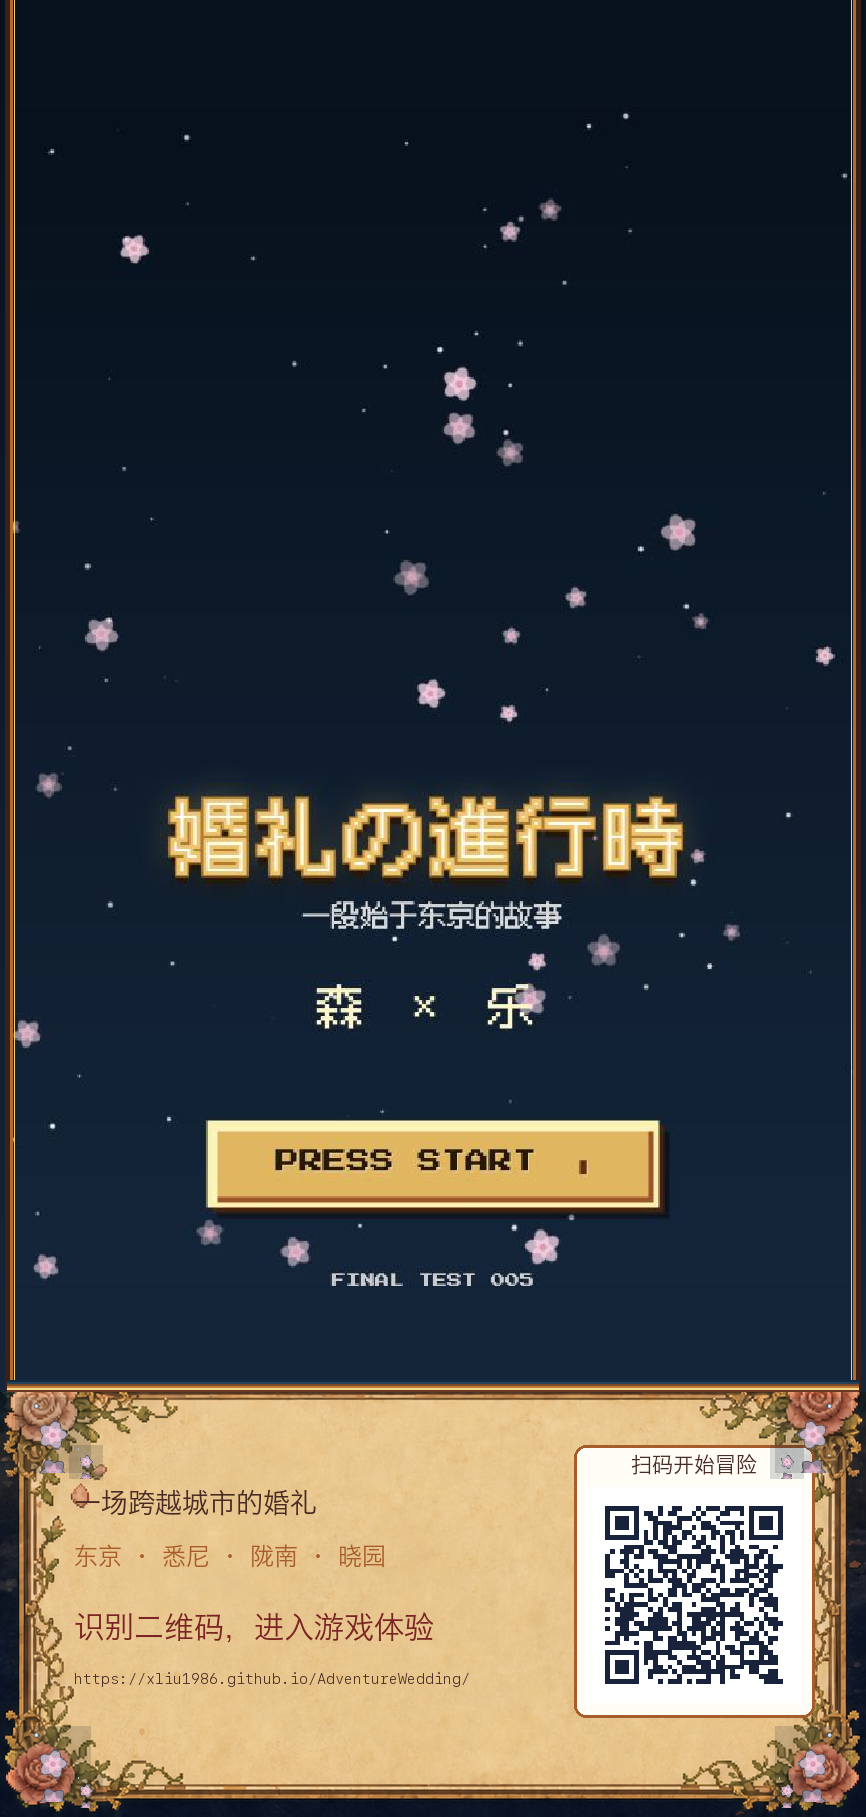
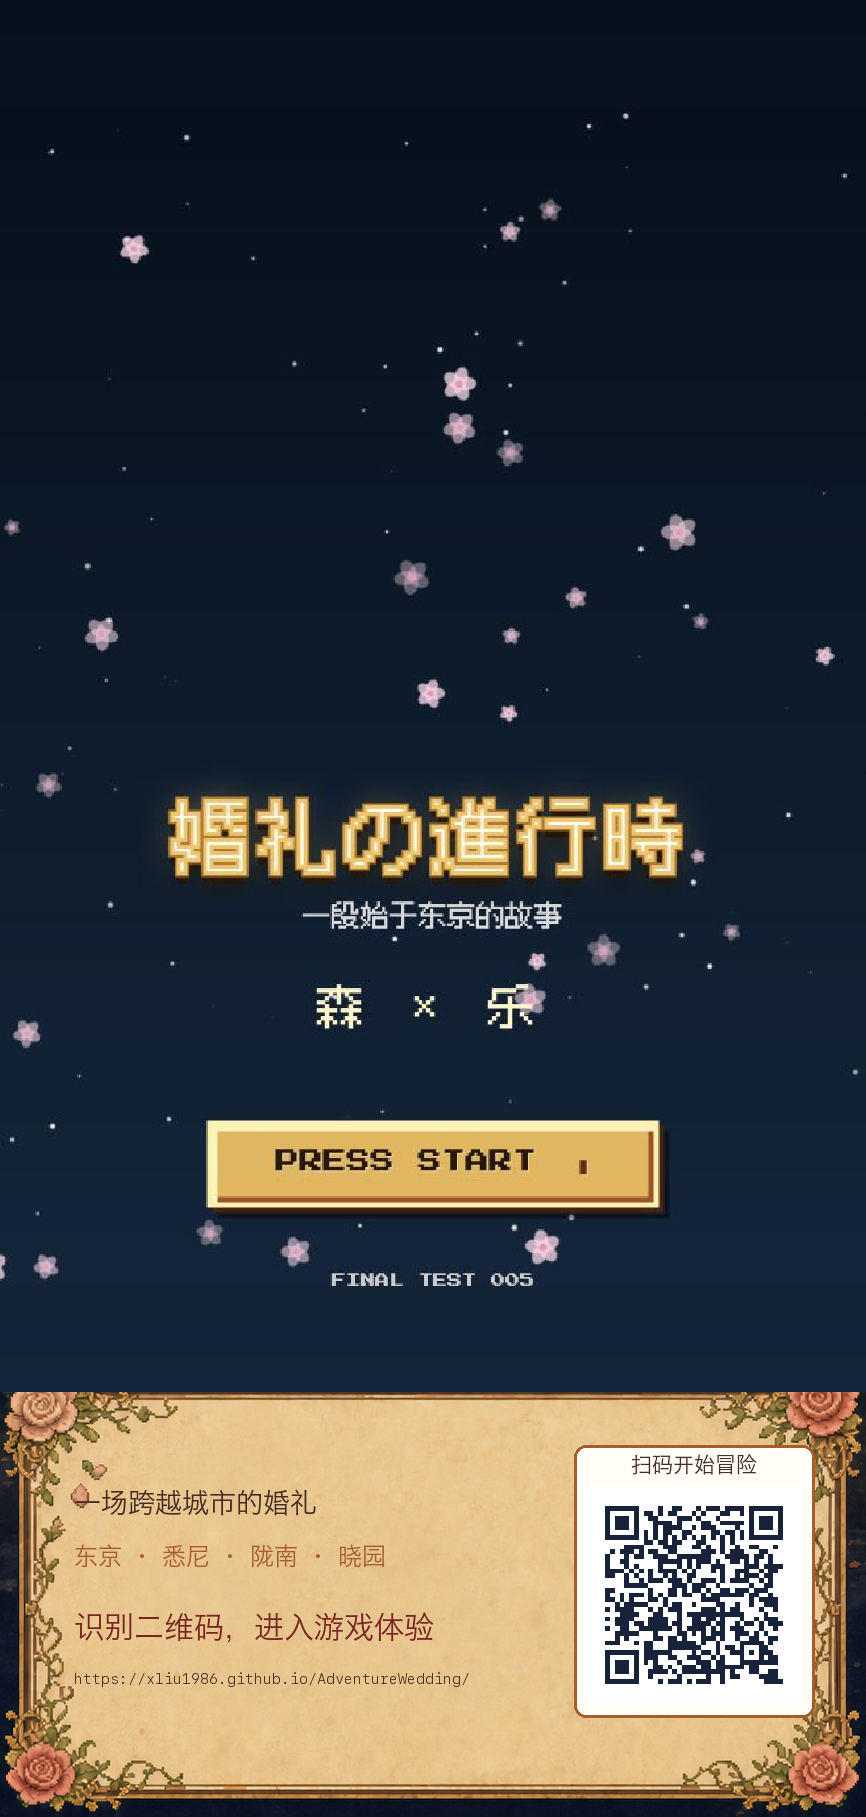
win

Changed region(s): [[0.0, 0.0, 0.9977, 0.8321], [0.873, 0.9246, 0.9977, 1.0], [0.0, 0.9246, 0.1247, 1.0]]

diff --git a/main.js b/main.js
@@ -330,6 +330,7 @@ animate();
 =========================== */
 
 const startButton = document.getElementById("startButton");
+const winButton = document.getElementById("winButton");
 
 const dialog = document.getElementById("dialog");
 
@@ -7572,6 +7573,12 @@ startButton.addEventListener("pointerdown", () => {
 
 }, { passive: true });
 
+winButton.addEventListener("pointerdown", () => {
+
+    window.AudioManager?.unlock?.();
+
+}, { passive: true });
+
 startButton.addEventListener("click", async () => {
 
     if (gameStarted) return;
@@ -7606,6 +7613,29 @@ startButton.addEventListener("click", async () => {
     handleAdventureWeddingSceneRequest({
         detail: { scene: "tokyoChapterCard", source: "startFallback" }
     });
+
+});
+
+winButton.addEventListener("click", async () => {
+
+    if (gameStarted) return;
+
+    const audioUnlocked = await window.AudioManager?.unlock?.();
+    if (audioUnlocked) window.AudioManager?.playSFX?.("pressStart");
+    gameStarted = true;
+    startButton.disabled = true;
+    winButton.disabled = true;
+    chatPrologueSceneHandled = true;
+    window.AdventureWeddingChatPrologue?.reset?.();
+    titleAnimationRunning = false;
+    titleScreen.classList.add("hidden");
+    dialog.classList.add("hidden");
+    restoreGameplayUI();
+    chapterLocation.classList.add("hidden");
+    currentChapter = "weddingXiaoyuan";
+    storyFlags.weddingChapterStarted = true;
+    beginGameplay();
+    showWeddingInvitation();
 
 });
 

diff --git a/style.css b/style.css
@@ -342,7 +342,17 @@ body{
 
 /* ================= Button ================= */
 
-#startButton{
+.menu{
+
+    display:flex;
+    flex-direction:column;
+    align-items:center;
+    gap:20px;
+
+}
+
+#startButton,
+#winButton{
 
     font-family:'Press Start 2P', cursive;
 
@@ -374,7 +384,8 @@ body{
 
 }
 
-#startButton::after{
+#startButton::after,
+#winButton::after{
 
     content:"▮";
 
@@ -386,7 +397,8 @@ body{
 
 }
 
-#startButton:hover{
+#startButton:hover,
+#winButton:hover{
 
     transform:translate(-2px,-2px);
 
@@ -398,7 +410,8 @@ body{
 
 }
 
-#startButton:active{
+#startButton:active,
+#winButton:active{
 
     transform:translate(3px,3px);
 
@@ -406,6 +419,21 @@ body{
     inset 4px 4px 0 #a94e20,
     inset -4px -4px 0 #fff3b6,
     1px 1px 0 #48200f;
+
+}
+
+#winButton{
+
+    min-width:250px;
+    padding:14px 38px;
+    background:#d58ba2;
+    border-color:#ffd8e3;
+    font-size:14px;
+    box-shadow:
+    inset 4px 4px 0 #ffe8ef,
+    inset -4px -4px 0 #8e3f5a,
+    4px 4px 0 #48200f,
+    8px 8px 0 rgba(0,0,0,.42);
 
 }
 
@@ -584,7 +612,8 @@ body{
 
     }
 
-    #startButton{
+    #startButton,
+    #winButton{
 
         width:280px;
 

diff --git a/index.html b/index.html
@@ -254,6 +254,10 @@
 PRESS START
 </button>
 
+<button id="winButton">
+PRESS WIN
+</button>
+
 </section>
 
 <footer class="version">
